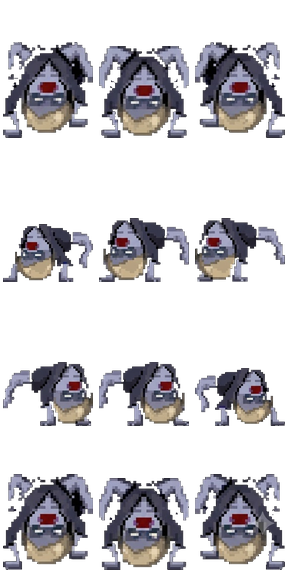
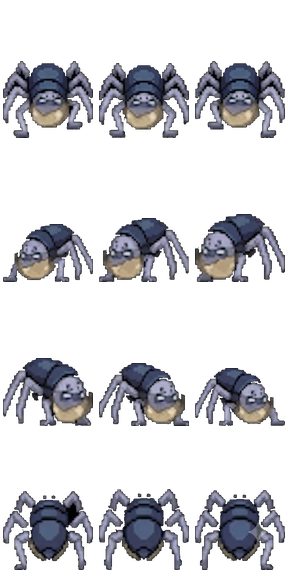
[feat/repo2d] - Nhìn rõ bộ hình: vẽ to hơn, hết nhoè, và người chơi được soi sáng
Nhập lại bộ hình chủ dự án gửi: 7 tấm vẽ lại (lead, ky, dung, phuc, khoi, patrol,
listen). Công cụ nhập nay đi sâu vào thư mục con và giữ bản mới nhất — Monster1/2/3
đã bị dời vào MostersFREE nên trước đó bị bỏ qua trong im lặng.

Ba thứ làm bộ hình không đọc được, sửa cả ba:
- Vẽ quá nhỏ: ô nguồn 144 px thu còn 77. CREW_SCALE 0,55 -> 0,80, FOE 0,80 -> 1,05.
- Khử răng cưa bật: đo được tắt 417 / bật 336 / high 250. Tắt hẳn.
- Lớp tối nhân lên cả nhân vật: sàn 93 rơi còn 57. Vũng sáng dưới chân sáng gần hết
  ở tâm rồi mới tụt, gói trong bán kính người chơi — cả nhà vẫn tối như cũ.

Sửa luôn lỗi tôi vừa đẩy lên: đổi ?v= mà quên hằng BUILD trong game.js, nên trang
báo "dính cache" cho mọi người chơi. Bài kiểm [4c] canh đúng chỗ đó từ nay.

Bài kiểm 20/20. Ba mục mới đều có răng: trả từng thay đổi về như cũ là đỏ.

Claude-Session: https://claude.ai/code/session_0165QyRexCeMWhuX61RQMZJb

diff --git a/games/repo2d/game.js b/games/repo2d/game.js
@@ -6634,8 +6634,15 @@ function buildLight(){
   c.save(); pathPoly(c, master); c.clip();
 
   // small pool at your feet
+  // Sáng hẳn ngay dưới chân, rồi tụt về đúng mức cũ trong vòng nửa ô. Lý do: lớp tối
+  // được NHÂN lên cả khung hình, kể cả lên chính nhân vật — đo được là màu sàn 106 rơi
+  // xuống còn 2..41, tức là bộ hình vẽ tay bị nhân cho tối đi tới 20 lần và người chơi
+  // chỉ thấy một cục đen. Chỗ sáng thêm gói trong bán kính người chơi, nên cả căn nhà
+  // vẫn tối y như trước — thứ đổi là bạn nhìn rõ mình và người đứng cạnh mình.
   let g = c.createRadialGradient(p.x,p.y,2,p.x,p.y,PERIPH_R);
-  g.addColorStop(0,'rgba(168,176,180,0.34)');
+  g.addColorStop(0,'rgba(206,212,216,0.94)');
+  g.addColorStop(0.30,'rgba(196,202,206,0.82)');
+  g.addColorStop(0.55,'rgba(150,160,168,0.46)');
   g.addColorStop(1,'rgba(90,100,110,0)');
   c.fillStyle = g; c.fillRect(p.x-PERIPH_R,p.y-PERIPH_R,PERIPH_R*2,PERIPH_R*2);
 
@@ -8456,7 +8463,7 @@ function drawMinimap(c, hud){
 // Trang html khai `game.js?v=...`, nen neu HTML moi thi JS chac chan moi. Cai co the cu la
 // chinh TRANG HTML. So DAU BUILD trong tep nay voi dau `?v=` tren the <script> la biet ngay:
 // hai so khac nhau nghia la trinh duyet dang chay mot to HTML cu.
-const BUILD = '20260829b';
+const BUILD = '20260829c';
 function el(id){ return document.getElementById(id); }
 let veilShownAt = -1e9, veilBornInTouch = false;
 const VEIL_CLICK_GRACE = 900;      // ms: cửa sổ sự kiện chuột "tương thích" của một cú chạm
@@ -8995,6 +9002,10 @@ window.REPO = {
   resetInput, cancelGestures, closeStash, unstick,
   stuck(){ return { paused: pausedWithNoWayOut(), veilUsable: veilUsable(), forSec: stuckT }; },
   carDrawOffset, playerDrawPos,
+  // Một điểm trong nhà nằm ở đâu trên khung vẽ (tính bằng pixel THẬT của canvas, đã
+  // nhân dpr). Bộ test cần nó để soi đúng ô người chơi đang đứng: camera bị chặn ở rìa
+  // bản đồ nên "người chơi luôn ở giữa màn" là sai, và đo nhầm ô thì đo ra sàn tối.
+  screenOf(x, y){ return { x: scrX(x)*dpr, y: scrY(y)*dpr }; },
   frame(){ const cv = CV(), r = cv.getBoundingClientRect();
            return { w:r.width, h:r.height, aspect:r.width/r.height, zoom:zoom(),
                     worldW:vwW(), worldH:vwH() }; },

diff --git a/games/repo2d/sprites.js b/games/repo2d/sprites.js
@@ -23,7 +23,11 @@
   const SRC = 3;
   const FW = 32 * SRC, FH = 48 * SRC, COLS = 3, ROWS = 4;
   const RIM = 2 * SRC, RIM_COLOR = '#ff3b30';
-  const CREW_SCALE = 0.55 / SRC, FOE_SCALE = 0.80 / SRC;   // quái to hơn người khoảng 1,45 lần
+  // Người 0,80 và quái 1,05 (trước là 0,55 / 0,80). Bộ hình vẽ tay là tranh pixel: ô
+  // nguồn cao 144 px mà vẽ ra chỉ 77 px thì thu hơn một nửa, và nửa số pixel của bộ
+  // hình rơi mất trước khi tới mắt người chơi. Vẽ to lên là cách duy nhất thấy được
+  // cái áo, cái nơ, cái mặt — thứ mà chủ dự án bỏ công vẽ. Tỉ lệ quái/người giữ ~1,3.
+  const CREW_SCALE = 0.80 / SRC, FOE_SCALE = 1.05 / SRC;
   const DOWN = 0, LEFT = 1, RIGHT = 2, UP = 3;
 
   // Đường dẫn tính từ trang đang mở: Ca Trực Đêm mở games/repo2d/, Biệt Đội mở
@@ -149,9 +153,11 @@
     const s = crew[crewIdOf(a, isPlayer)];
     if (!s) return false;
     const w = FW * CREW_SCALE, h = FH * CREW_SCALE;
-    // Bật khử răng cưa: bộ hình là tranh vẽ tay đã thu nhỏ, không phải lưới ô vuông
-    // vẽ đúng từng pixel — tắt đi thì mỗi lần thu tỉ lệ lẻ là rụng mất nét.
-    c.imageSmoothingEnabled = true;
+    // TẮT khử răng cưa. Đo bằng phương sai sai phân bậc hai trên chính ô hình đang vẽ:
+    // tắt được 417, bật 336, bật ở mức "high" chỉ 250 — tức là bật lên thì trình duyệt
+    // trộn nhoè các ô vuông của tranh pixel. Vẽ to lên (CREW_SCALE) là thứ bù lại phần
+    // răng cưa mà chú thích cũ lo, vì tỉ lệ thu nhỏ đã gần 1 hơn nhiều.
+    c.imageSmoothingEnabled = false;
     c.drawImage((a.hurt || 0) > 0 ? s.hurt : s.img, colFor(a) * FW, rowFor(a.dir) * FH, FW, FH,
       Math.round(-w / 2), Math.round(8 - h), w, h);
     return true;
@@ -163,7 +169,7 @@
     const src = (m.flash || 0) > 0 ? s.flash : s.cv;
     const w = s.cw * FOE_SCALE, h = s.ch * FOE_SCALE;
     const feet = (s.ch - s.pad) * FOE_SCALE;
-    c.imageSmoothingEnabled = true;
+    c.imageSmoothingEnabled = false;   // cùng lý do như bên người, xem drawCrew
     c.drawImage(src, colFor(m) * s.cw, rowFor(m.dir) * s.ch, s.cw, s.ch,
       Math.round(-w / 2), Math.round(9 - feet), w, h);
 
